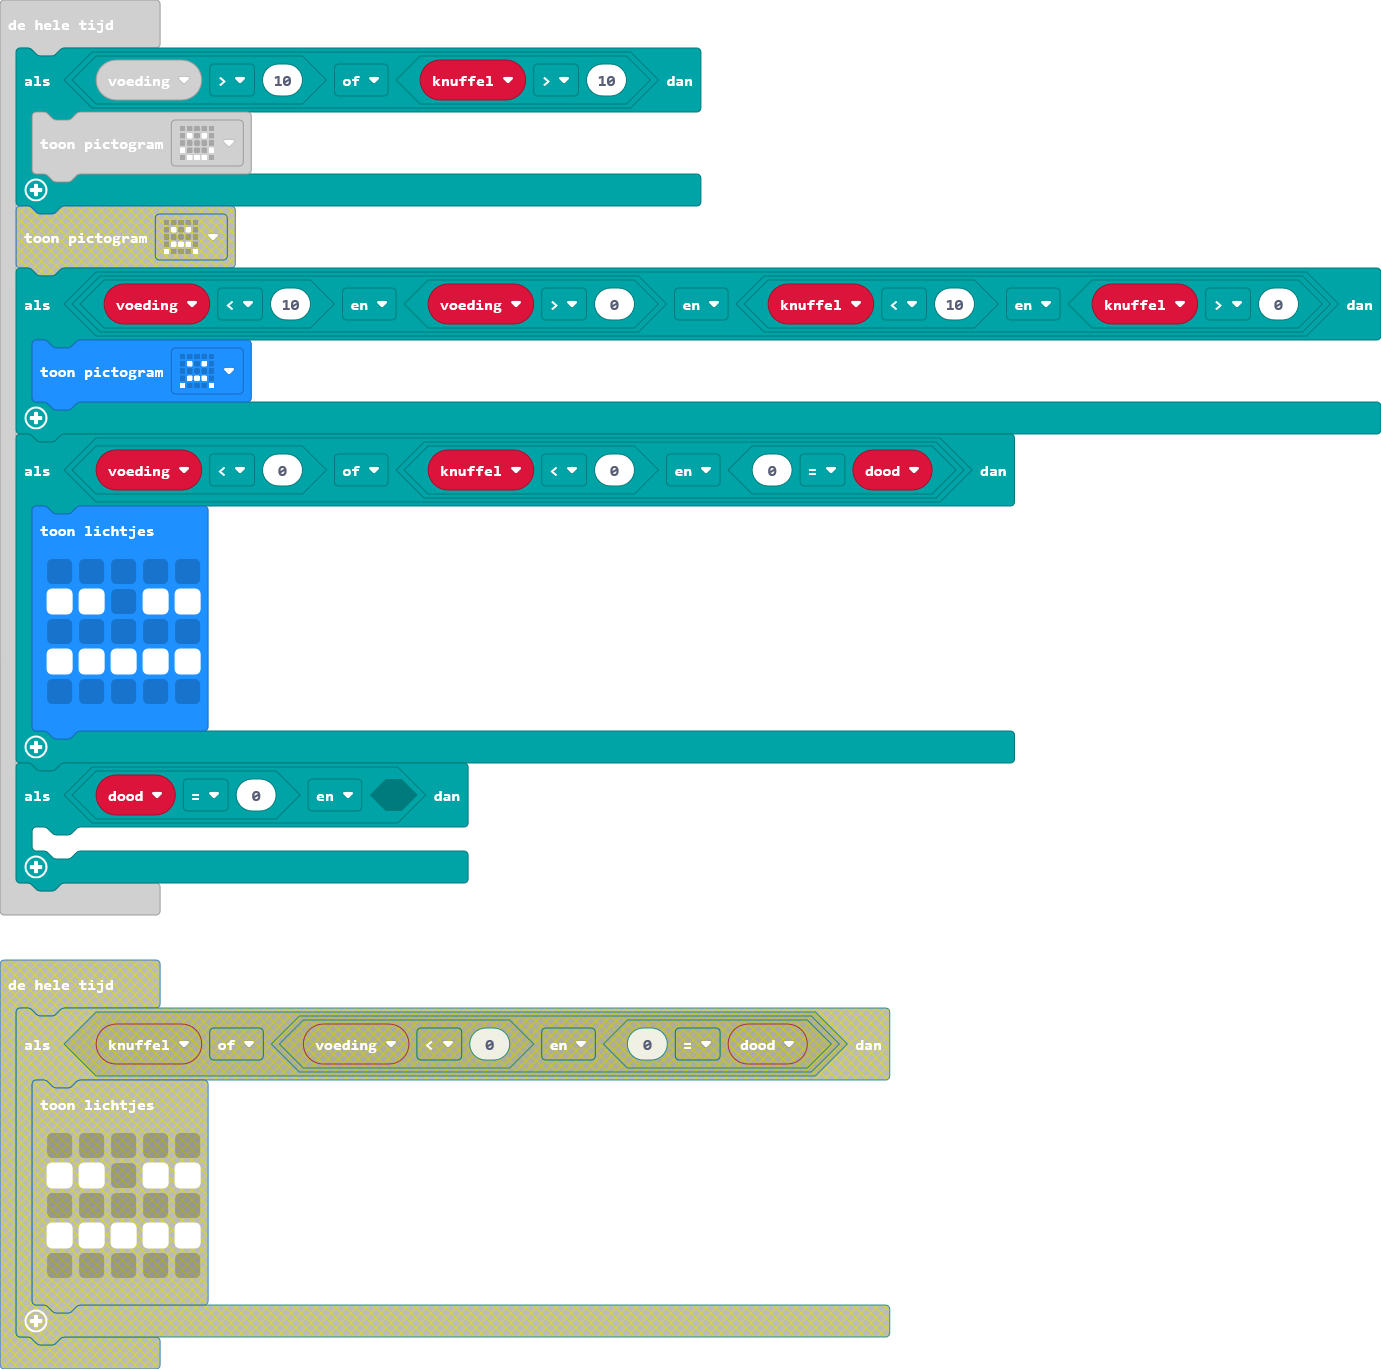
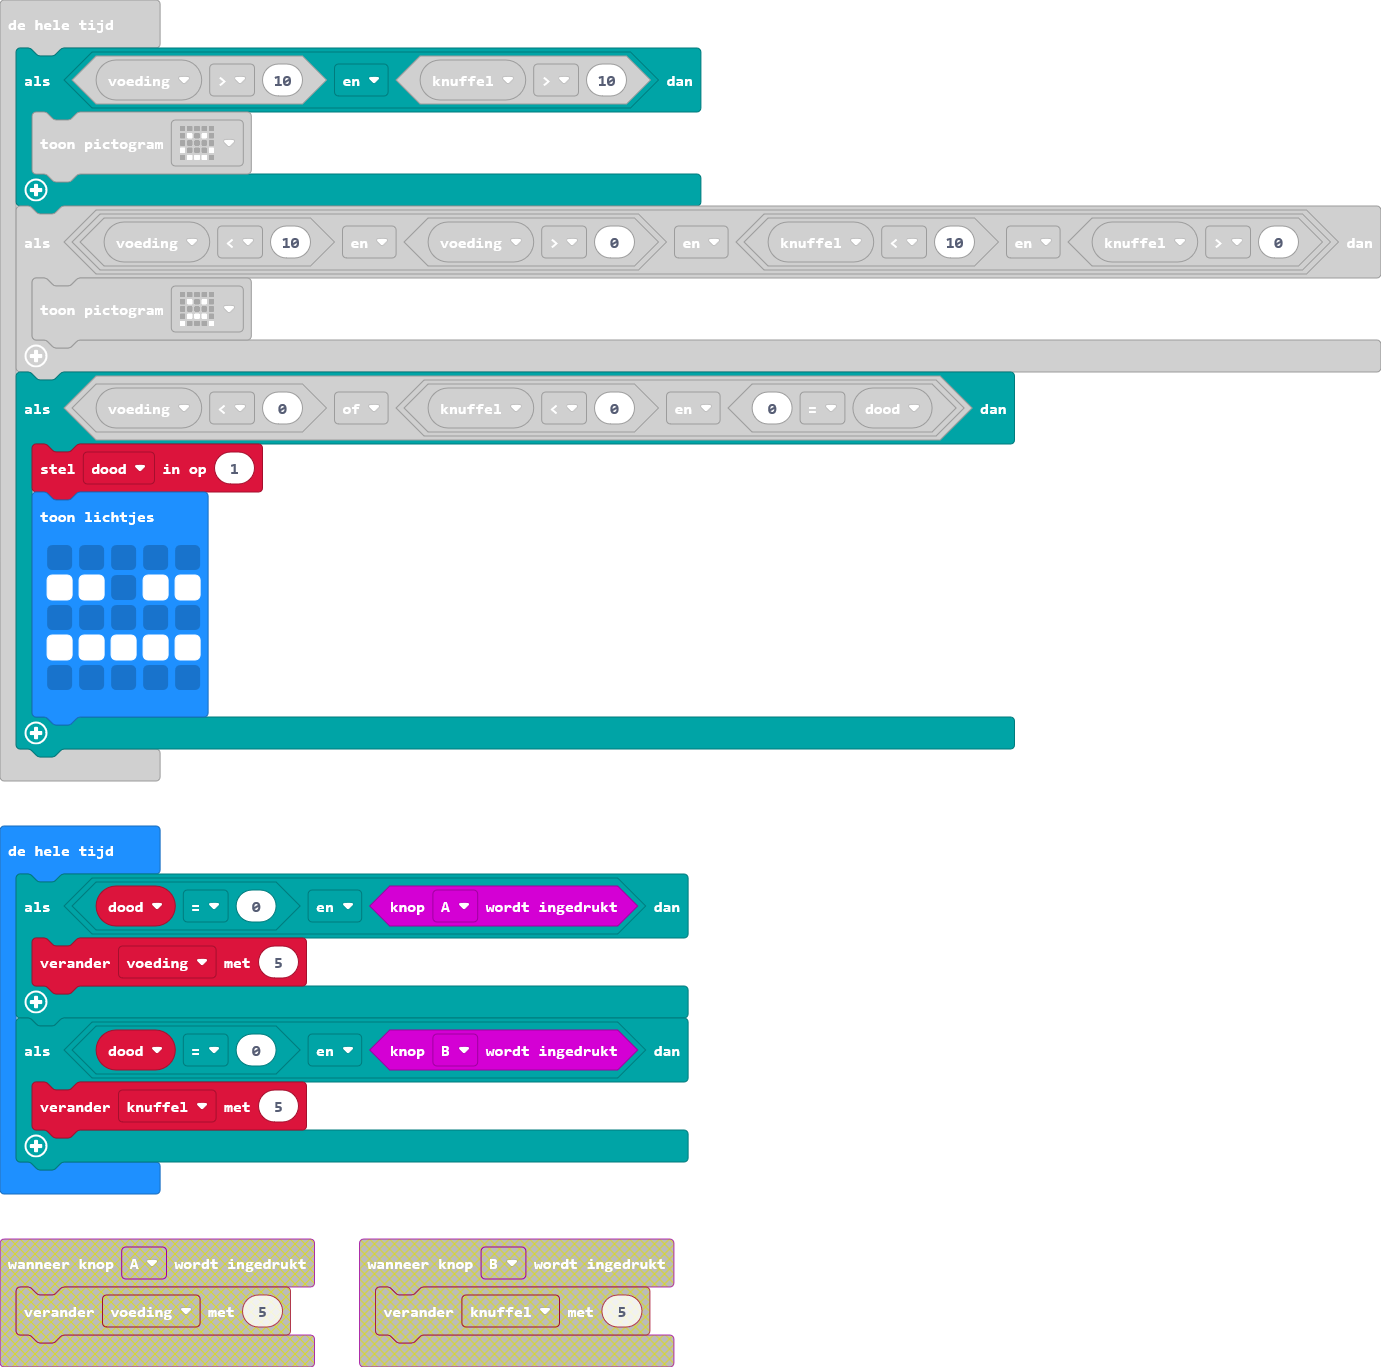
main.blocks, main.ts bijwerken

diff --git a/main.ts b/main.ts
@@ -1,9 +1,3 @@
-input.onButtonPressed(Button.A, function () {
-    voeding += 5
-})
-input.onButtonPressed(Button.B, function () {
-    knuffel += 5
-})
 let dood = 0
 let knuffel = 20
 let voeding = 20
@@ -13,13 +7,14 @@ basic.forever(function () {
     voeding += -1
 })
 basic.forever(function () {
-    if (voeding > 10 || knuffel > 10) {
+    if (voeding > 10 && knuffel > 10) {
         basic.showIcon(IconNames.Happy)
     }
     if (voeding < 10 && voeding > 0 && (knuffel < 10 && knuffel > 0)) {
         basic.showIcon(IconNames.Sad)
     }
     if (voeding < 0 || knuffel < 0 && 0 == dood) {
+        dood = 1
         basic.showLeds(`
             . . . . .
             # # . # #
@@ -28,7 +23,12 @@ basic.forever(function () {
             . . . . .
             `)
     }
-    if (dood == 0 && false) {
-    	
+})
+basic.forever(function () {
+    if (dood == 0 && input.buttonIsPressed(Button.A)) {
+        voeding += 5
+    }
+    if (dood == 0 && input.buttonIsPressed(Button.B)) {
+        knuffel += 5
     }
 })
